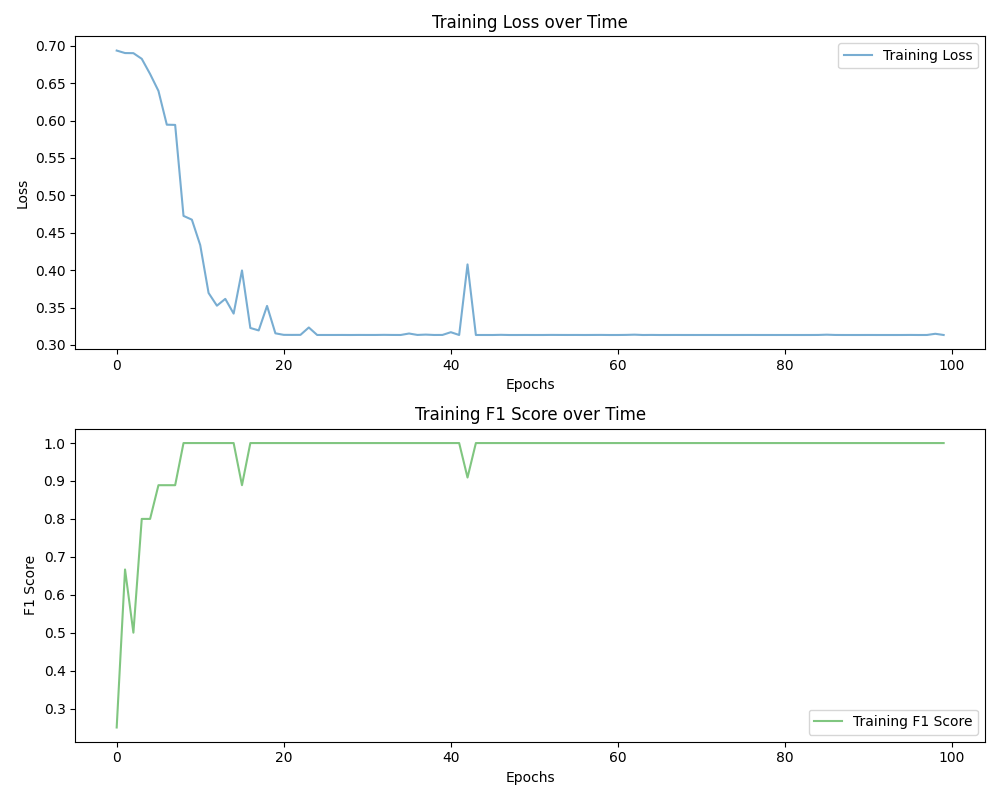
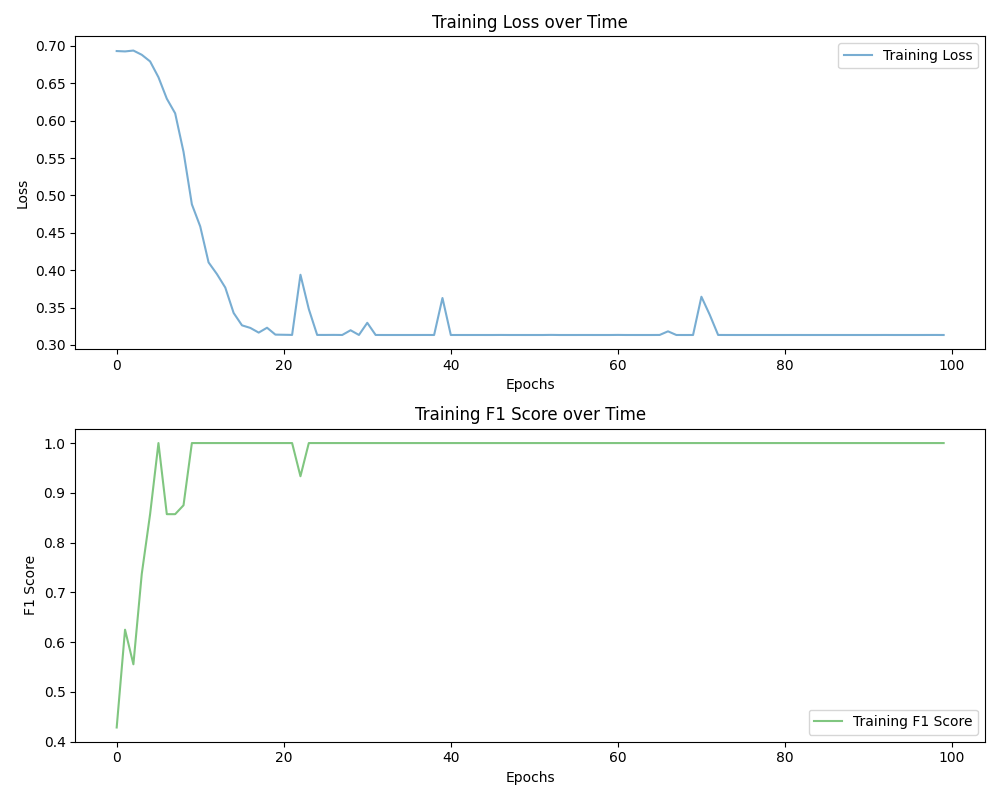
feat: download pre-trained mobilenetv2 weight, add license, apply fine-tune technique from luke branch

diff --git a/common.py b/common.py
@@ -8,7 +8,6 @@ import os
 import torch
 from torch import nn
 from torchvision import models
-from torchvision.models import MobileNet_V2_Weights, ResNet18_Weights
 import torch.nn.functional as F
 
 ########################################################################################################################
@@ -25,18 +24,13 @@ print(f"Using device: {device}")
 
 # Prototypical network implementation based on https://colab.research.google.com/drive/1TPL2e3v8zcDK00ABqH3R0XXNJtJnLBCd?usp=sharing#scrollTo=UW5Rxifk7Kru
 class Prototypical(nn.Module):
-    #Initialise model with resNet as base CNN and flattening fc layer
+    #Initialise model with our attention model as base CNN and flattening fc layer
     def __init__(self):
         super(Prototypical, self).__init__()
-        
-        # Uncomment below to use CBAM attention model
         self.baseCNN = CBAMAttentionMN((224, 224))
-        
-        # self.baseCNN = models.mobilenet_v2(pretrained=True)
-        # self.baseCNN = models.mobilenet_v2(weights=MobileNet_V2_Weights.IMAGENET1K_V1)
-        # self.baseCNN = models.resnet18(weights=ResNet18_Weights.DEFAULT)
         self.support_images= []
         self.support_labels = []
+    
     def forward(
         self,
         support_images: torch.Tensor,
@@ -46,18 +40,16 @@ class Prototypical(nn.Module):
         support_features = self.baseCNN.forward(support_images)
         query_features = self.baseCNN.forward(query_images)
 
-        # Infer the number of different classes from the labels of the support set
         num_classes = len(torch.unique(support_labels))
-        # Prototype i is the mean of all instances of features corresponding to labels == i
         prototype = torch.cat([support_features[torch.nonzero(support_labels == label)].mean(0) for label in range(num_classes)])
 
-        # Compute the euclidean distance from queries to prototypes
+        # Compute the euclidean distance to create prototypes
         scores = -(torch.cdist(query_features, prototype))
 
         return scores
 
 
-    
+# Attention module code based on https://github.com/EscVM/EscVM_YT/blob/master/Notebooks/0%20-%20TF2.X%20Tutorials/tf_2_visual_attention.ipynb
 class ChannelAttention(nn.Module):
     def __init__(self, filters, ratio):
         super(ChannelAttention, self).__init__()
@@ -79,7 +71,6 @@ class ChannelAttention(nn.Module):
 class SpatialAttention(nn.Module):
     def __init__(self, kernel_size=7):
         super(SpatialAttention, self).__init__()
-        assert kernel_size % 2 == 1, "Kernel size must be odd"
         self.conv2d = nn.Conv2d(2, 1, kernel_size=kernel_size, padding=kernel_size//2, bias=False)
         self.sigmoid = nn.Sigmoid()
 
@@ -93,34 +84,40 @@ class SpatialAttention(nn.Module):
 class CBAMAttentionMN(nn.Module):
     def __init__(self, input_shape):
         super(CBAMAttentionMN, self).__init__()
-        # self.baseModel = models.mobilenet_v2(pretrained=True).features
-        self.baseModel = models.mobilenet_v2(weights=MobileNet_V2_Weights.IMAGENET1K_V1).features
-        self.baseModel.trainable = False
+        # Path to the locally saved weights
+        weights_path = 'resources/pretrained/mobilenet_v2-7ebf99e0.pth'
 
-        # Assume input channels to channel attention is 1280 because it's the output of MobileNetV2
-        self.channel_attention = ChannelAttention(filters=1280, ratio=8)
+        # Initialize MobileNetV2 without pre-trained weights
+        model = models.mobilenet_v2(weights=None)
+
+        # Load the weights from a local file instead of using MobileNet_V2_Weights
+        model_weights = torch.load(weights_path, map_location=device)
+        model.load_state_dict(model_weights)
+
+        # We are using only the features of MobileNetV2
+        self.baseModel = model.features
+        
+        # Set the base model layers are not trainable (if needed)
+        # for param in self.baseModel.parameters():
+        #     param.requires_grad = False
+
+        self.channel_attention = ChannelAttention(filters=1280, ratio=16)
         self.spatial_attention = SpatialAttention(kernel_size=7)
 
         self.flatten = nn.Flatten()
-        self.global_avg_pool = nn.AdaptiveAvgPool2d(1)  # Global Avg Pooling
-        self.dense1 = nn.Linear(1280, 256)  # Adjust depending on the output size after pooling
+        self.global_avg_pool = nn.AdaptiveAvgPool2d(1)
+        self.dense1 = nn.Linear(1280, 256)
         self.dropout = nn.Dropout(0.3)
         self.dense2 = nn.Linear(256, 1)
         self.sigmoid = nn.Sigmoid()
 
     def forward(self, inputs):
-        # print("inputs", inputs.shape)
         x = self.baseModel(inputs)
-        # print("x1", x.shape)
         x = self.channel_attention(x)
-        # print("x2", x.shape)
         x = self.spatial_attention(x)
-        # print("x3", x.shape)
         x = self.global_avg_pool(x)
         x = self.flatten(x)
-        # print("x4", x.shape)
         x = F.relu(self.dense1(x))
-        # print("x5", x.shape)
         x = self.dropout(x)
         x = self.dense2(x)
         output = self.sigmoid(x)

diff --git a/train.py b/train.py
@@ -7,9 +7,8 @@ from common import load_image_labels, load_single_image, save_model, Prototypica
 
 import torch
 from torch import nn, optim
-import torch.nn.functional as F
 from torch.utils.data import Dataset, DataLoader
-from torchvision import models, transforms
+from torchvision import transforms
 from sklearn.model_selection import train_test_split
 from easyfsl.samplers import TaskSampler
 from easyfsl.utils import sliding_average
@@ -26,12 +25,7 @@ from torchvision.transforms import functional as Fn
 device = torch.device("cuda" if torch.cuda.is_available() else "cpu")
 print(f"Using device: {device}")
 
-
-SEED = 42
-torch.manual_seed(SEED)
-np.random.seed(SEED)
-if torch.cuda.is_available():
-    torch.cuda.manual_seed_all(SEED)
+SEED = 88
 
 
 ########################################################################################################################
@@ -39,7 +33,7 @@ if torch.cuda.is_available():
 ########################################################################################################################
 class SaltAndPepperNoise(object):
     """Apply salt and pepper noise to an image."""
-    def __init__(self, amount=0.01):
+    def __init__(self, amount=0.04):
         self.amount = amount
 
     def __call__(self, img):
@@ -64,13 +58,14 @@ class SaltAndPepperNoise(object):
         # Convert numpy array back to PIL Image
         return Fn.to_pil_image(img_array)
 
+
 def augment_data(images, labels, augmentations_per_image):
     augmented_images = []
     augmented_labels = []
     augmentations = transforms.Compose([
         transforms.RandomHorizontalFlip(),
         transforms.RandomVerticalFlip(),
-        transforms.RandomRotation(10),
+        transforms.RandomRotation(20),
         transforms.ColorJitter(brightness=0.1, contrast=0.1, saturation=0.1, hue=0.1),
         transforms.RandomApply([SaltAndPepperNoise(0.004)], p=0.5), # Applying salt and pepper noise with a 1% amount
     ])
@@ -138,7 +133,6 @@ def episodic_evaluate(model, data_loader, criterion):
     return avg_loss, avg_f1
 
 
-
 def plot_training_metrics(train_loss: list[float], train_f1: list[float], output_dir: str) -> None:
     """
     Plots the training loss and F1 score from a training session on two subplots,
@@ -174,8 +168,7 @@ def plot_training_metrics(train_loss: list[float], train_f1: list[float], output
     print(f"Plot saved to {file_path}")
 
     # Close the plot to free up memory
-    plt.close()
-
+    plt.close()  
 
         
 ########################################################################################################################
@@ -223,16 +216,17 @@ def train(images: [Image], labels: [str], output_dir: str) -> Any:
     # Converting labels to ints
     labels = [1 if label == "Yes" else 0 for label in labels]
 
-    # Augmenting dataset
-    augmented_images, augmented_labels = augment_data(images, labels, 10)
-
     # Splitting the dataset
-    X_train, X_test, y_train, y_test = train_test_split(augmented_images, augmented_labels, test_size=0.2, random_state=SEED)
+    X_train, X_test, y_train, y_test = train_test_split(images, labels, test_size=0.2, random_state=SEED)
+    
+    # Augmenting dataset
+    X_train, y_train = augment_data(images, labels, 15)
+    X_test, y_test = augment_data(images, labels, 10)
     
     # Defining prototypical parameters
     N_WAY = 2 # Num classes
     N_SHOT = 5 # Images per class
-    N_QUERY = 5 # Num query images
+    N_QUERY = 8 # Num query images
     N_EVALUATION_TASKS = 100
     
     # Pre-processing
@@ -254,12 +248,12 @@ def train(images: [Image], labels: [str], output_dir: str) -> Any:
         train_data,
         batch_sampler=train_sampler,
         collate_fn=train_sampler.episodic_collate_fn,
-        # shuffle=False,
     )
 
     # Initialising model
     model = Prototypical().to(device)
     criterion = nn.CrossEntropyLoss()
+    # optimizer = optim.Adam(model.parameters(), lr=0.001, weight_decay=1e-5)
     optimizer = optim.Adam(model.parameters(), lr=0.001)
 
     # Initialize learning rate scheduler and optimizer
@@ -338,9 +332,7 @@ def train(images: [Image], labels: [str], output_dir: str) -> Any:
     N_QUERY_TEST = 2 # Num query images
     N_EVALUATION_TASKS_TEST = 10
 
-    # NOTE: Make sure Number of test_sampler at least has (N_SHOT_TEST + N_QUERY_TEST) samples
-
-    # Setup for episodic evaluation on test data
+    # test data evaluation
     test_sampler = TaskSampler(test_data, N_WAY_TEST, N_SHOT_TEST, N_QUERY_TEST, N_EVALUATION_TASKS_TEST)
     test_loader = DataLoader(
         test_data,

diff --git a/predict.py b/predict.py
@@ -93,7 +93,6 @@ def predict(model: torch.nn.Module, image: Image) -> str:
     support_labels = torch.tensor([1 if label == "Yes" else 0 for label in model.support_labels]).to(device)
 
     # # Apply the transformations to the image
-    # image_tensor = transform_image_to_tensor(image).unsqueeze(0) # Add a batch dimension
     image_tensor = transform_image_to_tensor(image).unsqueeze(0).to(device) # Add batch dimension and move to device
 
     with torch.no_grad():
